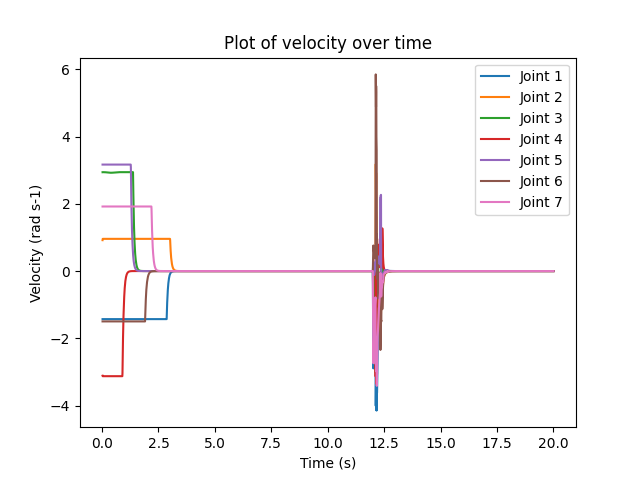
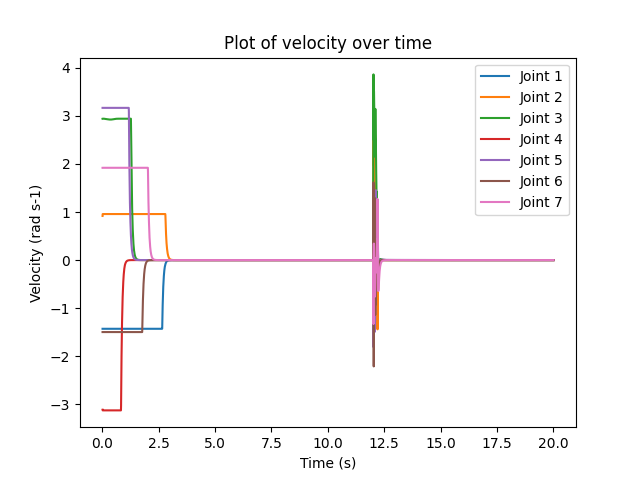
took away force

diff --git a/main.py b/main.py
@@ -33,7 +33,7 @@ def main():
     # Get the number of joints
     num_joints = p.getNumJoints(robot)
 
-    duration=5
+    duration = 20
     time_step = 1/240
     p.setTimeStep(time_step)
 
@@ -45,18 +45,16 @@ def main():
                                                          7,
                                                          [0.1, 0.1, 0.4],
                                                          targetOrientation=final_orientation,
-                                                         maxNumIterations = 5*simulation_steps
+                                                         maxNumIterations=simulation_steps
                                                          )
     
     print(final_joint_positions)
 
-    duration = 20  # Duration in seconds
-    change=[]
+    change = []
     for jointIndex in range(num_joints-2):
         #targetPositions[jointIndex] = jointPositions[jointIndex]  # Set initial target positions to starting configuration
         change.append(final_joint_positions[jointIndex] / duration)  # Calculate increment for each joint
     print(change)
-
 
     p_0 = None
     r_0 = None
@@ -79,6 +77,7 @@ def main():
     startTime = time.time()
     i = -1
     force_not_applied = True
+    p.setRealTimeSimulation(0)
 
     while int(time.time() - startTime) < duration:
         i = i+1
@@ -213,10 +212,6 @@ def main():
             selected_link = random_index
             selected_link_position = link_positions[random_index]
             selected_link_orientation = link_orientations[random_index]
-
-            force = [400, 550, 700]  # Define the force vector (e.g., 10 N in the x-direction)
-            position = [0, 0, 0]  # Define the position of the external force (e.g., at the joint's origin)
-            p.applyExternalForce(robot, random_index, force, position, p.LINK_FRAME)  # Apply the force
 
             print("FORCE APPLIED AT LINK", random_index)
             print(f"FORCE APPLIED AT TIME: {current_time}")
